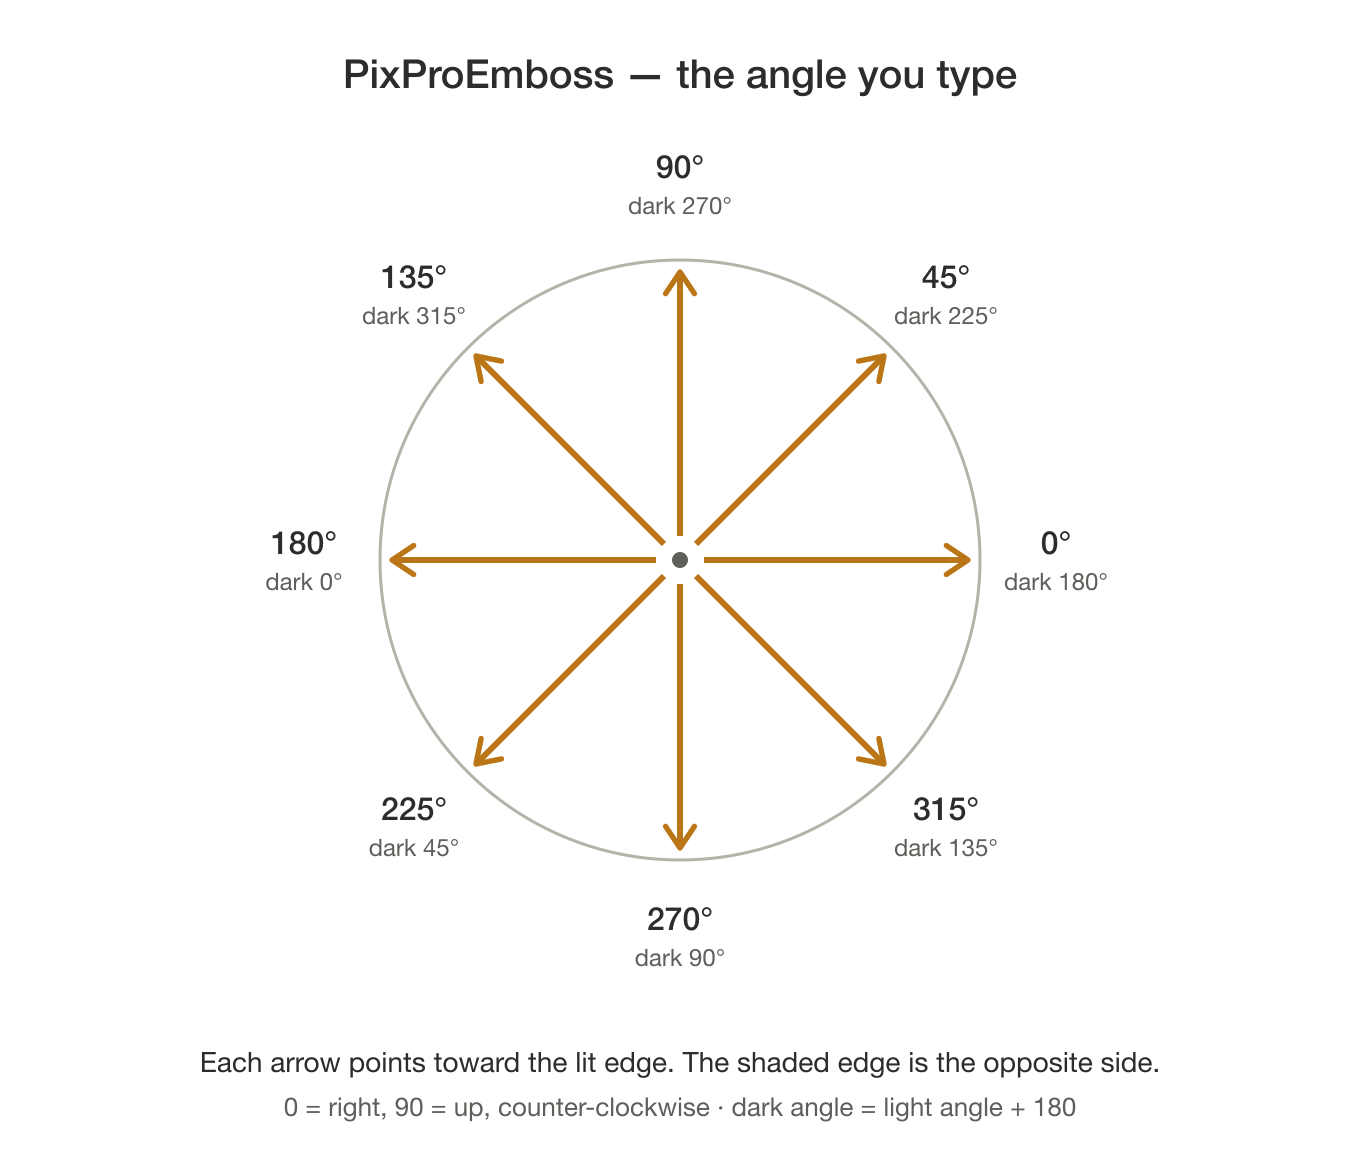
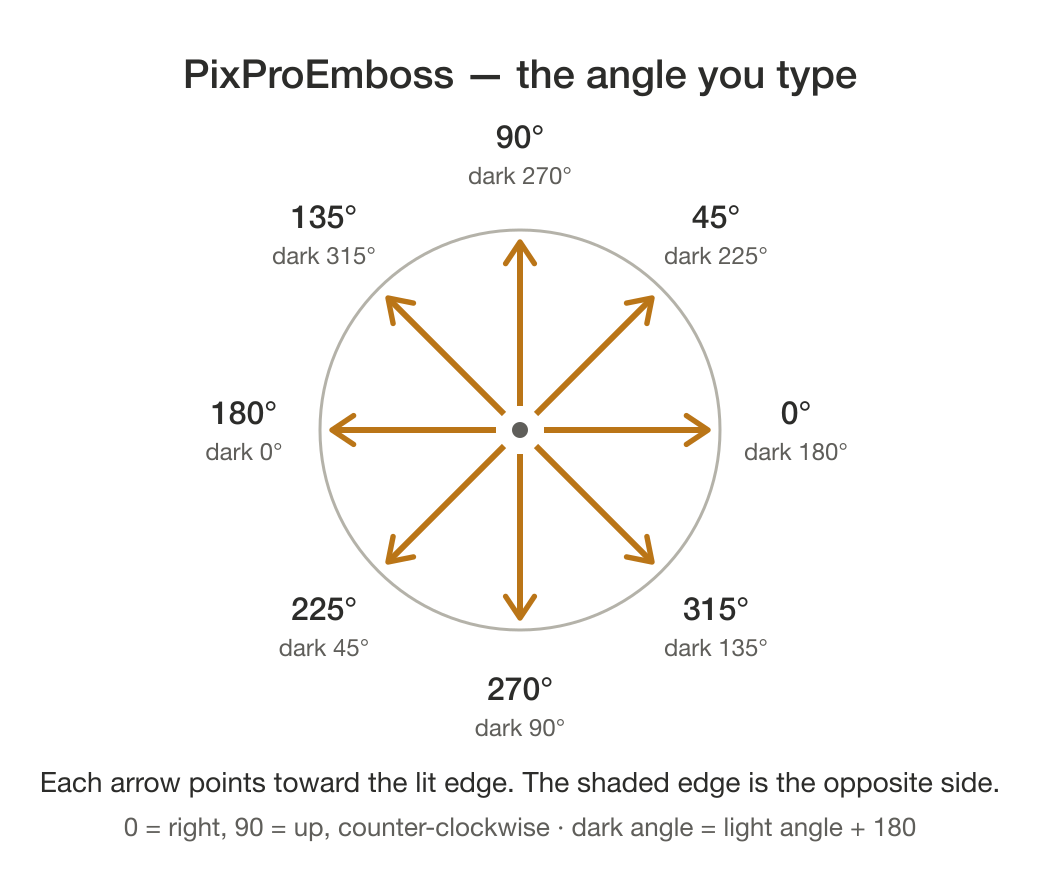
PixProEmboss 2.7.6: smaller angle diagram
The angle diagram in the Read Me is smaller.

diff --git a/README.md b/README.md
@@ -1,4 +1,4 @@
-# PixProEmboss 2.7.5
+# PixProEmboss 2.7.6
 
 Embosses the selected Pixelmator Pro layer — text, a shape, or a group of
 shaped text — so it reads as raised off the canvas, with a lit edge on one
